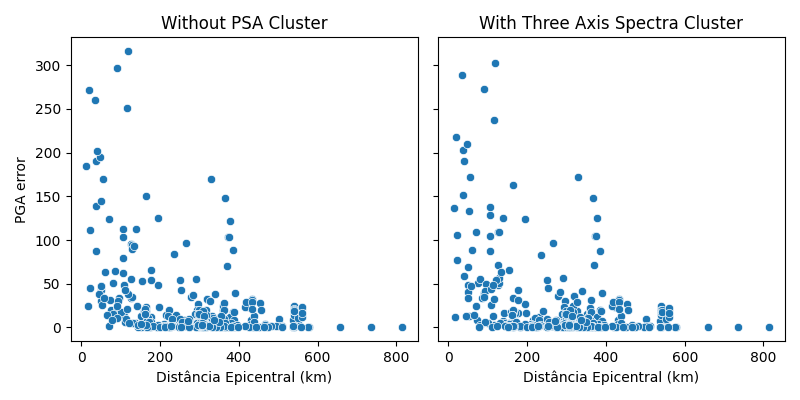
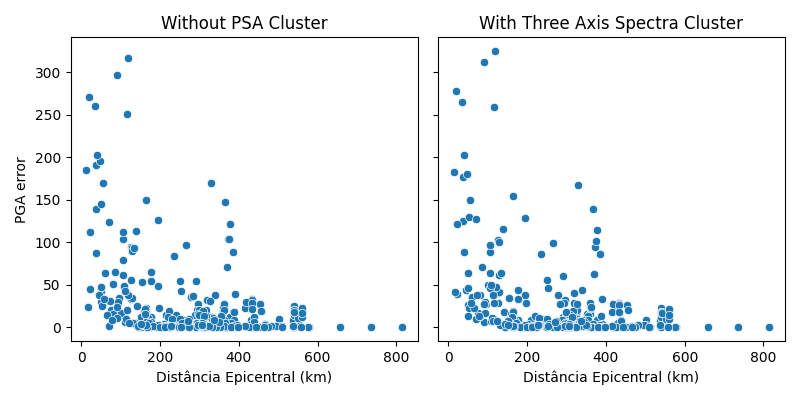
Refactor clustering functions to improve data handling; add epsilon to prevent division by zero and ensure proper scaling of training and test datasets

diff --git a/clustering.py b/clustering.py
@@ -1,12 +1,8 @@
-import warnings
 import numpy as np
 import pandas as pd
 from sklearn.preprocessing import MinMaxScaler
 from sklearn.cluster import KMeans
 from sklearn.metrics import silhouette_score
-
-# Suprimir warnings de divisão por zero nas médias espectrais (comportamento esperado do script original)
-warnings.filterwarnings("ignore", category=RuntimeWarning)
 
 def split_psa_columns(df_psa: pd.DataFrame, train_ids: list, test_ids: list):
     """
@@ -78,8 +74,9 @@ def calculate_psa_means(df_psa_subset: pd.DataFrame):
         ns_mean = np.mean(ns_signals, axis=0) if ns_signals else np.zeros(len(df_psa_subset))
         
         # Coeficientes e médias gerais
-        ew_v_spectral_coeficients = ew_mean / v_mean
-        ns_v_spectral_coeficients = ns_mean / v_mean
+        epsilon = 1e-9
+        ew_v_spectral_coeficients = ew_mean / (v_mean + epsilon)
+        ns_v_spectral_coeficients = ns_mean / (v_mean + epsilon)
         
         spectral_coefs_mean = np.mean(np.array([ew_v_spectral_coeficients, ns_v_spectral_coeficients]), axis=0)
         spectral_means = np.mean(np.array([v_mean, ew_mean, ns_mean]), axis=0)
@@ -103,9 +100,12 @@ def find_optimal_k(df_train_mean: pd.DataFrame, min_k: int = 2, max_k: int = 8, 
     Escalona os dados de treino, avalia os clusters usando a métrica Silhouette Score 
     (para valores entre min_k e max_k) e retorna o K que obteve a pontuação mais alta.
     """
+    # Transpor para que as amostras sejam as linhas (estações) e colunas sejam as features (períodos)
+    df_train_t = df_train_mean.T
+    
     scaler = MinMaxScaler()
-    X_train_scaled = scaler.fit_transform(df_train_mean)
-    df_train_scaled_t = pd.DataFrame(X_train_scaled, index=df_train_mean.index, columns=df_train_mean.columns).T
+    X_train_scaled = scaler.fit_transform(df_train_t)
+    df_train_scaled_t = pd.DataFrame(X_train_scaled, index=df_train_t.index, columns=df_train_t.columns)
     
     best_k = 2
     best_score = -1
@@ -126,19 +126,22 @@ def generate_clusters(df_train_mean: pd.DataFrame, df_test_mean: pd.DataFrame, k
     Aplica o dimensionamento (MinMaxScaler) e a clusterização (KMeans) replicando
     a lógica exata do script original. Retorna um dicionário unificado mapeando station_key -> cluster_id.
     """
+    # Transpor para que as amostras sejam as linhas (estações) e colunas sejam as features (períodos)
+    df_train_t = df_train_mean.T
+    df_test_t = df_test_mean.T
+    
     # --- Treino ---
     scaler = MinMaxScaler()
-    X_train_scaled = scaler.fit_transform(df_train_mean)
-    df_train_scaled_t = pd.DataFrame(X_train_scaled, index=df_train_mean.index, columns=df_train_mean.columns).T
+    X_train_scaled = scaler.fit_transform(df_train_t)
+    df_train_scaled_t = pd.DataFrame(X_train_scaled, index=df_train_t.index, columns=df_train_t.columns)
     
     kmeans = KMeans(n_clusters=k, random_state=random_state, n_init=10)
     df_train_scaled_t['Cluster'] = kmeans.fit_predict(df_train_scaled_t)
     
     # --- Teste ---
-    # Mantendo fit_transform no teste para ser idêntico aos cálculos originais
-    scaler_teste = MinMaxScaler()
-    X_test_scaled = scaler_teste.fit_transform(df_test_mean)
-    df_test_scaled_t = pd.DataFrame(X_test_scaled, index=df_test_mean.index, columns=df_test_mean.columns).T
+    # Aplicar apenas o transform() no conjunto de teste para evitar vazamento de dados (Data Leakage)
+    X_test_scaled = scaler.transform(df_test_t)
+    df_test_scaled_t = pd.DataFrame(X_test_scaled, index=df_test_t.index, columns=df_test_t.columns)
     
     df_test_scaled_t['Cluster'] = kmeans.predict(df_test_scaled_t)
     
